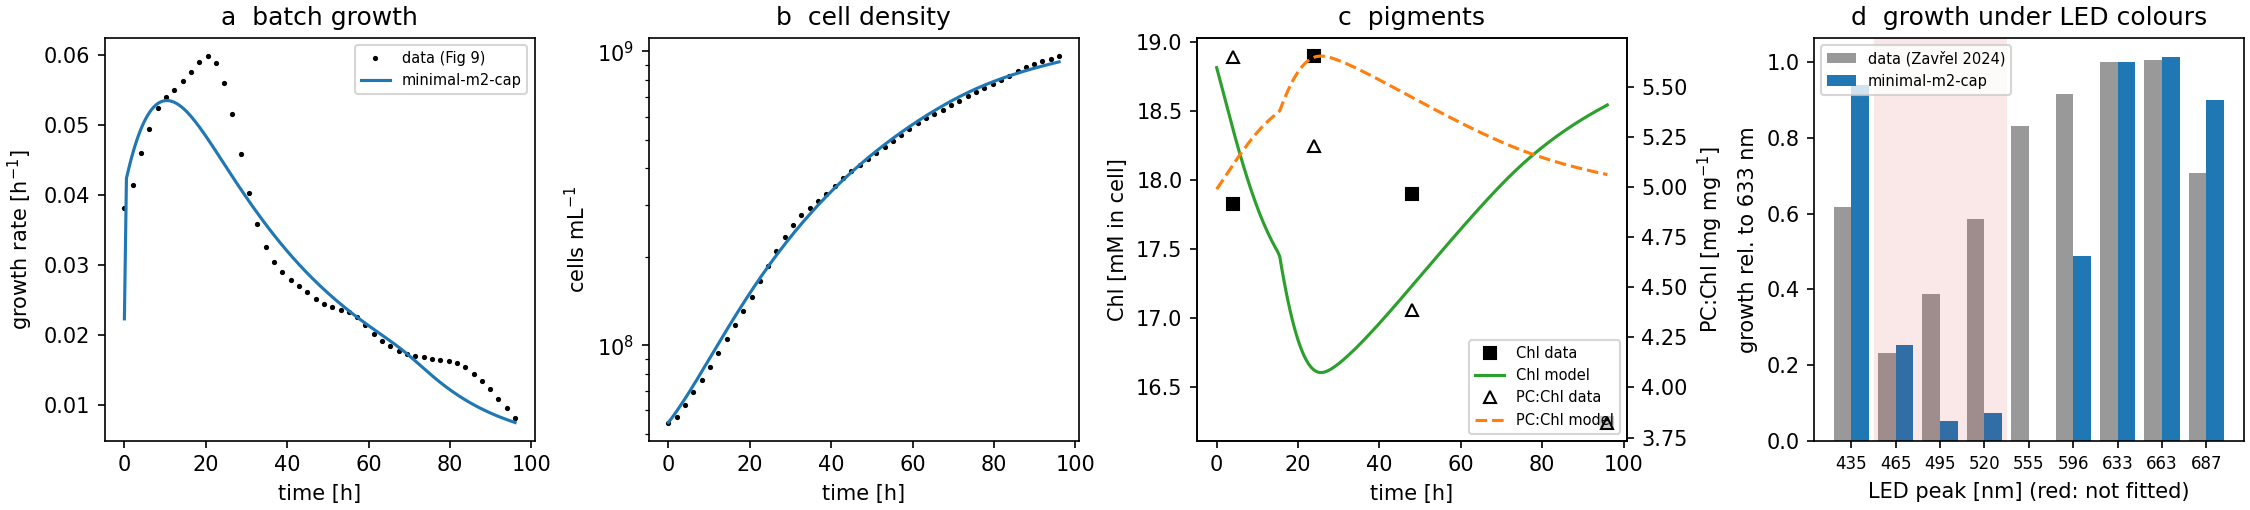
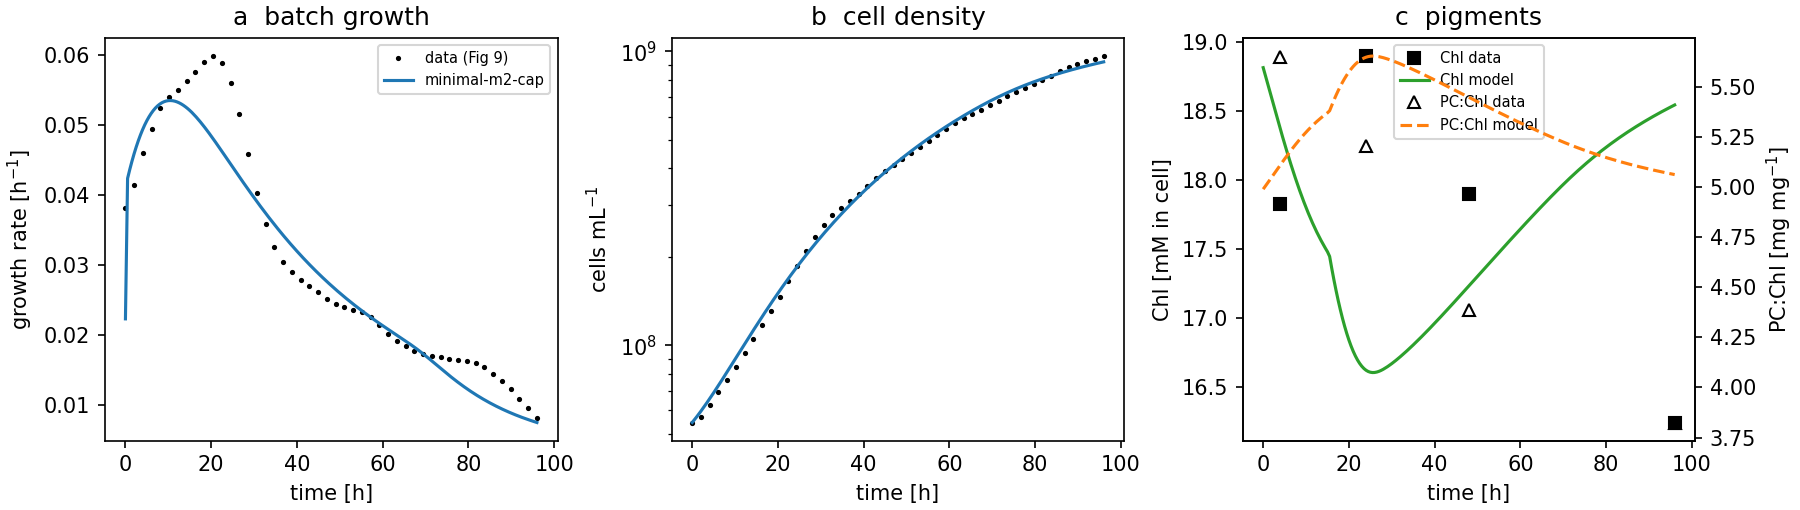
docs: drop the LED colour panel from the executive report
The colour data belong to the best-light follow-up, so the fit figure keeps
only batch growth, density and pigments, and report 15 drops the 465-555 nm
caveat and next step.

diff --git a/scripts/executive_figures.py b/scripts/executive_figures.py
@@ -20,9 +20,9 @@ import matplotlib.pyplot as plt
 import numpy as np
 
 sys.path.insert(0, str(Path(__file__).parent))
-from shared_fit import COLOUR_EXCLUDED, TIMES, targets  # noqa: E402
+from shared_fit import TIMES, targets
 
-from synmep import colour, evaluate, variants  # noqa: E402
+from synmep import evaluate, variants
 
 R = Path("docs/reports")
 FIG = R / "figures"
@@ -44,7 +44,7 @@ def fit_figure(fit: dict) -> None:
     data = evaluate._growth_data()
     t_data = np.linspace(0, 96, len(data))
     tg = targets()
-    fig, ax = plt.subplots(1, 4, figsize=(15, 3.4), layout="constrained")
+    fig, ax = plt.subplots(1, 3, figsize=(12, 3.4), layout="constrained")
     ax[0].plot(t_data, data.to_numpy(), "k.", ms=3, label="data (Fig 9)")
     ax[0].plot(tr["t_h"], tr["mu_per_h"], "C0", label=NAME)
     ax[0].set(xlabel="time [h]", ylabel="growth rate [h$^{-1}$]", title="a  batch growth")
@@ -60,21 +60,8 @@ def fit_figure(fit: dict) -> None:
     a2.plot(tr["t_h"], tr["pc_per_chl"], "C1--", label="PC:Chl model")
     a2.set_ylabel("PC:Chl [mg mg$^{-1}$]")
     h = [*ax[2].get_legend_handles_labels()[0], *a2.get_legend_handles_labels()[0]]
-    ax[2].legend(handles=h, fontsize=7, loc="lower right")
-    cd = colour.data()
-    model = fit["colour"]
-    x = np.arange(len(cd))
-    used = ~cd.index.isin(COLOUR_EXCLUDED)
-    ax[3].bar(x - 0.2, cd["growth"], 0.4, color="0.6", label="data (Zavřel 2024)")
-    ax[3].bar(x + 0.2, [model[str(w)]["growth"] for w in cd.index], 0.4, color="C0",
-              label=NAME)  # fmt: skip
-    for i in np.flatnonzero(~used):
-        ax[3].axvspan(i - 0.5, i + 0.5, color="C3", alpha=0.1, lw=0)
-    ax[3].set_xticks(x, [str(w) for w in cd.index], fontsize=8)
-    ax[3].set(xlabel="LED peak [nm] (red: not fitted)", ylabel="growth rel. to 633 nm",
-              title="d  growth under LED colours")  # fmt: skip
+    ax[2].legend(handles=h, fontsize=7, loc="upper center")
     ax[0].legend(fontsize=7)
-    ax[3].legend(fontsize=7)
     fig.savefig(FIG / "exec-fit.png", dpi=150)
 
 

diff --git a/docs/reports/15-executive-report.md b/docs/reports/15-executive-report.md
@@ -12,7 +12,6 @@
   `minimal-m0-cap` gives the same answers (cheaper fallback).
 - **Caveats:**
   - `petc_r` and `capacity_K` end at their lower bounds.
-  - 555 nm gives no growth; 465–520 nm are not fitted.
   - GGPP accumulates in dense cultures (77 mM at 10⁹ cells mL⁻¹).
 
 ![fit](figures/exec-fit.png)
@@ -54,5 +53,4 @@ flux, storage overflow) caps squalene, not pigments.
 
 1. Widen the `petc_r` and `capacity_K` bounds, refit.
 2. GGPP outlet for dense cultures.
-3. Diagnose 555 nm.
-4. Test the reframed growth claim on the CrtE knock-down turbidostat data.
+3. Test the reframed growth claim on the CrtE knock-down turbidostat data.
